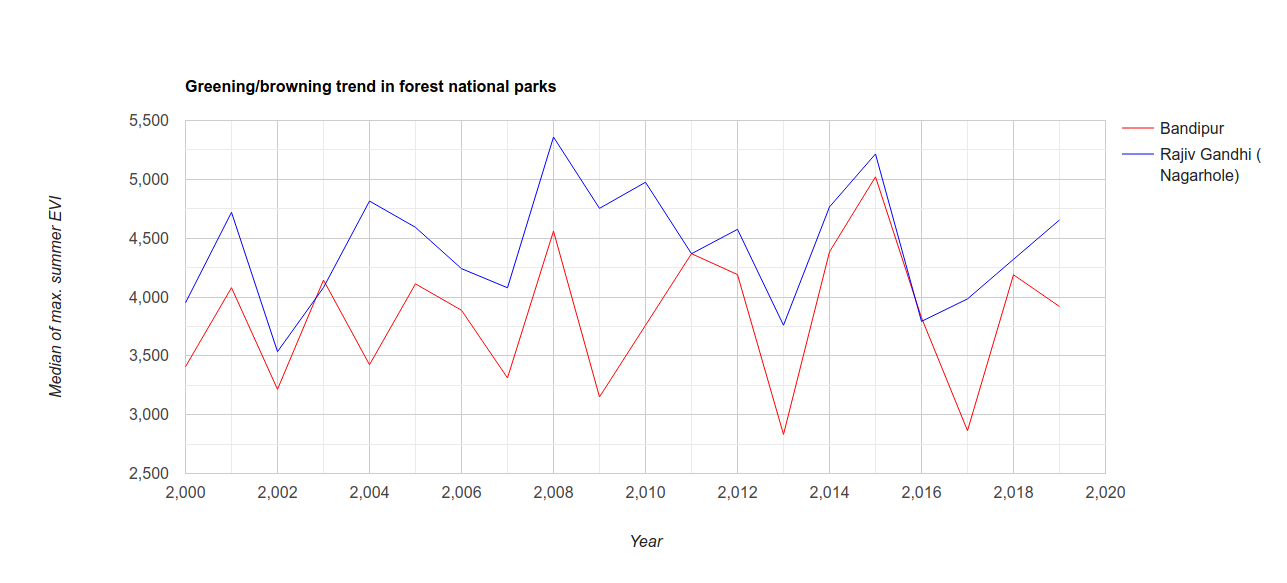
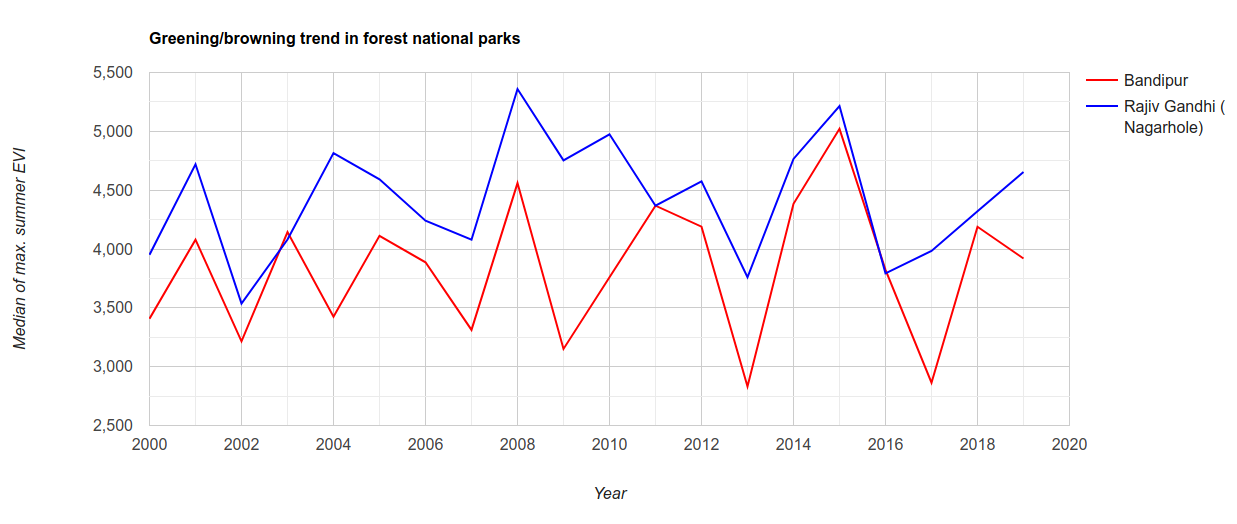
Update median evi chart, use a keyword dictionary for it
Addressing @jdbcode Comment: Use a keyword dictionary for functions with many inputs so users know what each one is.

Keyword dictionary inputs to chart function; other functions done as part of previous commits

diff --git a/tutorials/forest-vegetation-condition/index.md b/tutorials/forest-vegetation-condition/index.md
@@ -190,26 +190,26 @@ Map.centerObject(nps, 10);
 Chart the median of maximum summer EVIs in each national park over the years.
 
 ```js
-// plot trend in EVI data by national park and year
-var chart = ui.Chart.image.seriesByRegion(summerStats, nps, ee.Reducer.median(),
-  'max', 250, 'year', 'NAME');
-chart = chart.setChartType('ScatterChart');
-chart = chart.setOptions({
-  title: 'Greening/browning trend in forest national parks',
-  vAxis: {
-    title: 'Median of max. summer EVI'
-  },
-  hAxis: {
-    title: 'Year'
-  },
-  lineWidth: 1,
-  pointSize: 0,
-  series: {
-    0: {color: 'ff0000'},
-    1: {color: '0000ff'}
-  }
-});
-print(chart);
+// Plot trend in EVI data by national park and year.
+print(ui.Chart.image
+          .seriesByRegion({
+            imageCollection: summerStats,
+            regions: nps,
+            reducer: ee.Reducer.median(),
+            band: 'max',
+            scale: 250,
+            xProperty: 'year',
+            seriesProperty: 'NAME'
+          })
+          .setChartType('ScatterChart')
+          .setOptions({
+            title: 'Greening/browning trend in forest national parks',
+            vAxis: {title: 'Median of max. summer EVI'},
+            hAxis: {title: 'Year', format: '####'},
+            lineWidth: 2,
+            pointSize: 0,
+            series: {0: {color: 'ff0000'}, 1: {color: '0000ff'}}
+          }));
 ```
 ![](medevichart.png)
 
